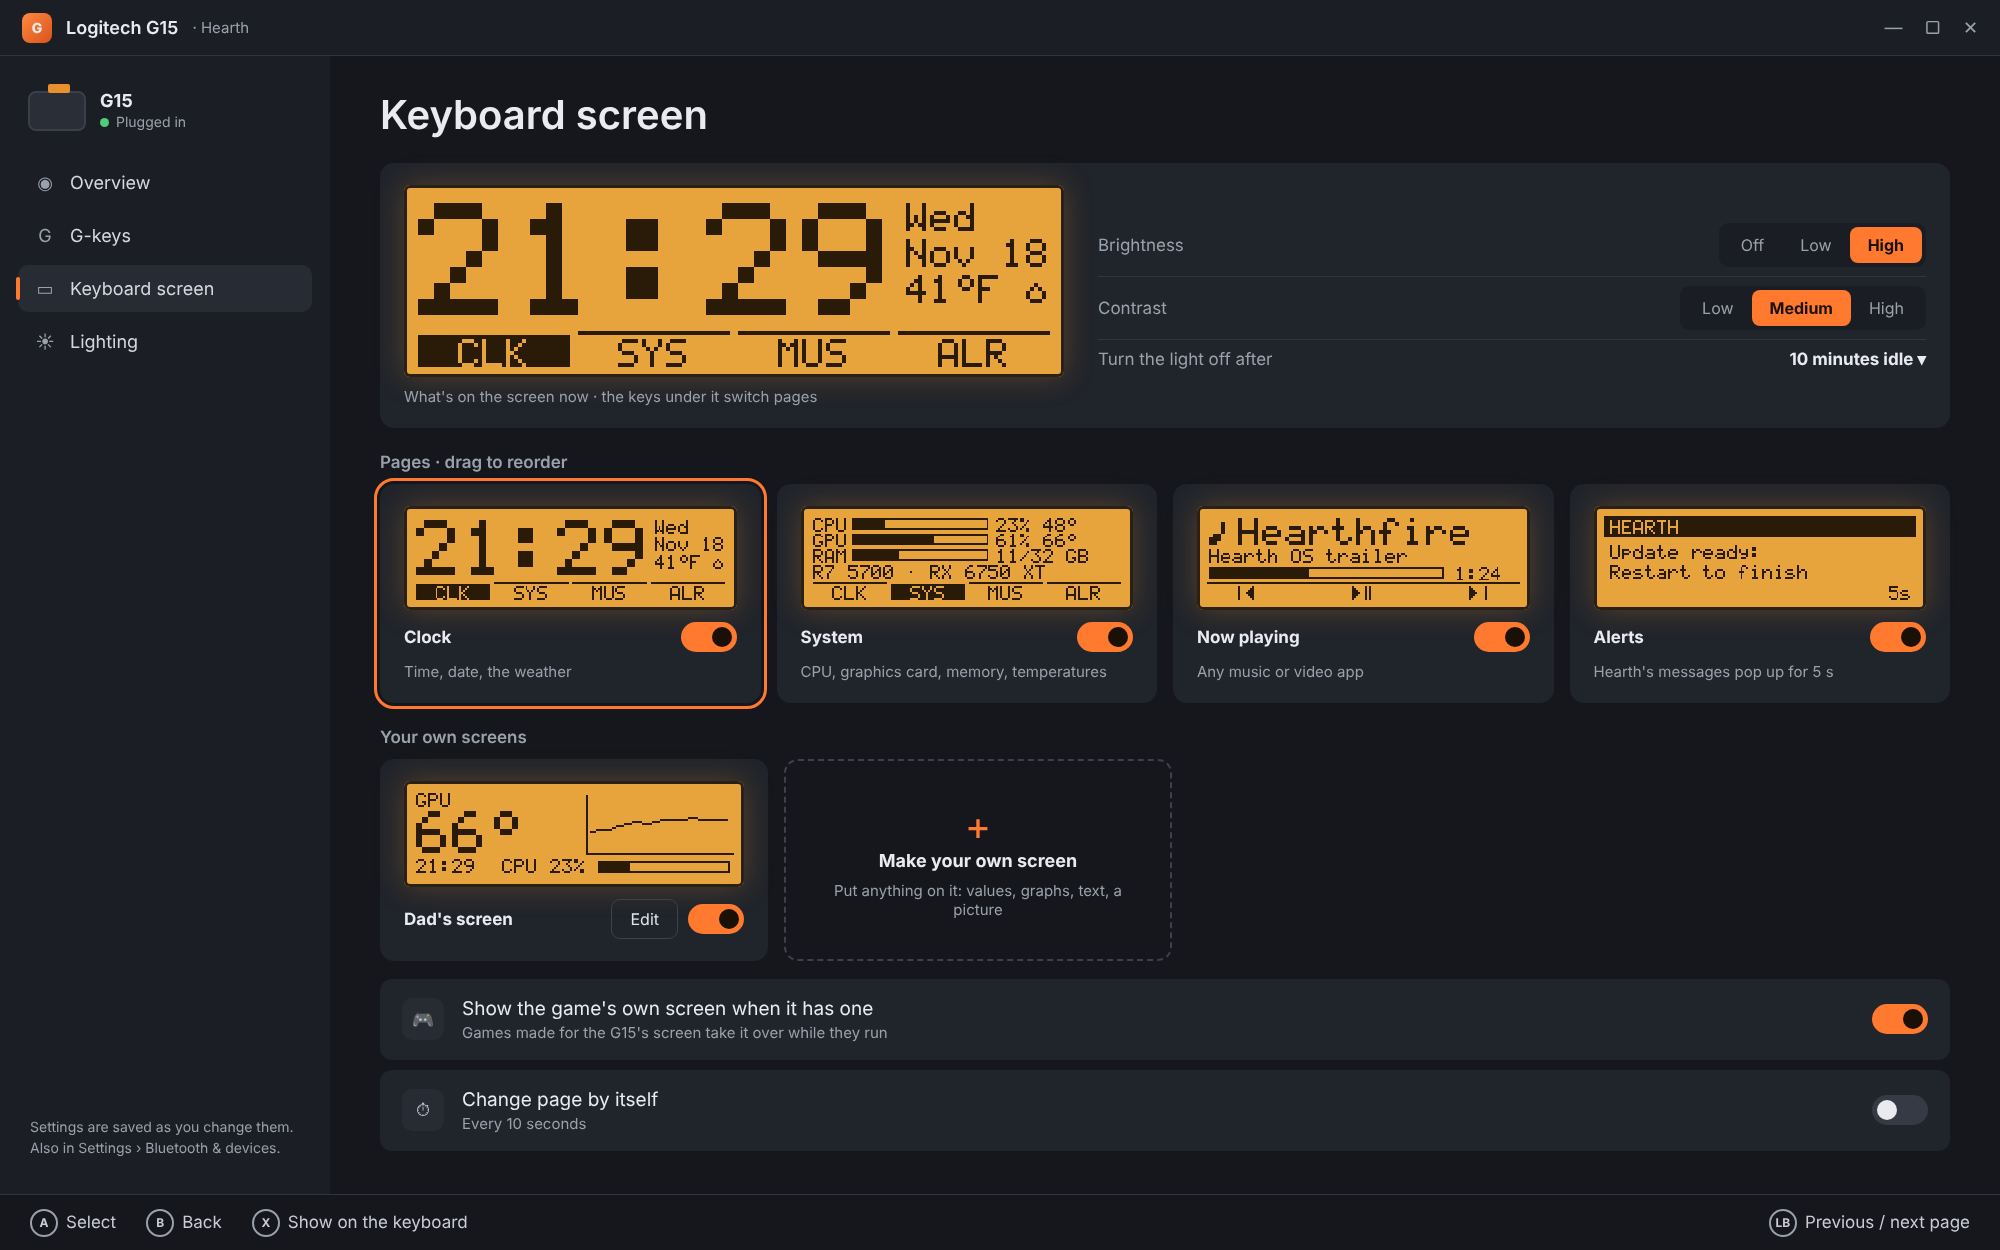
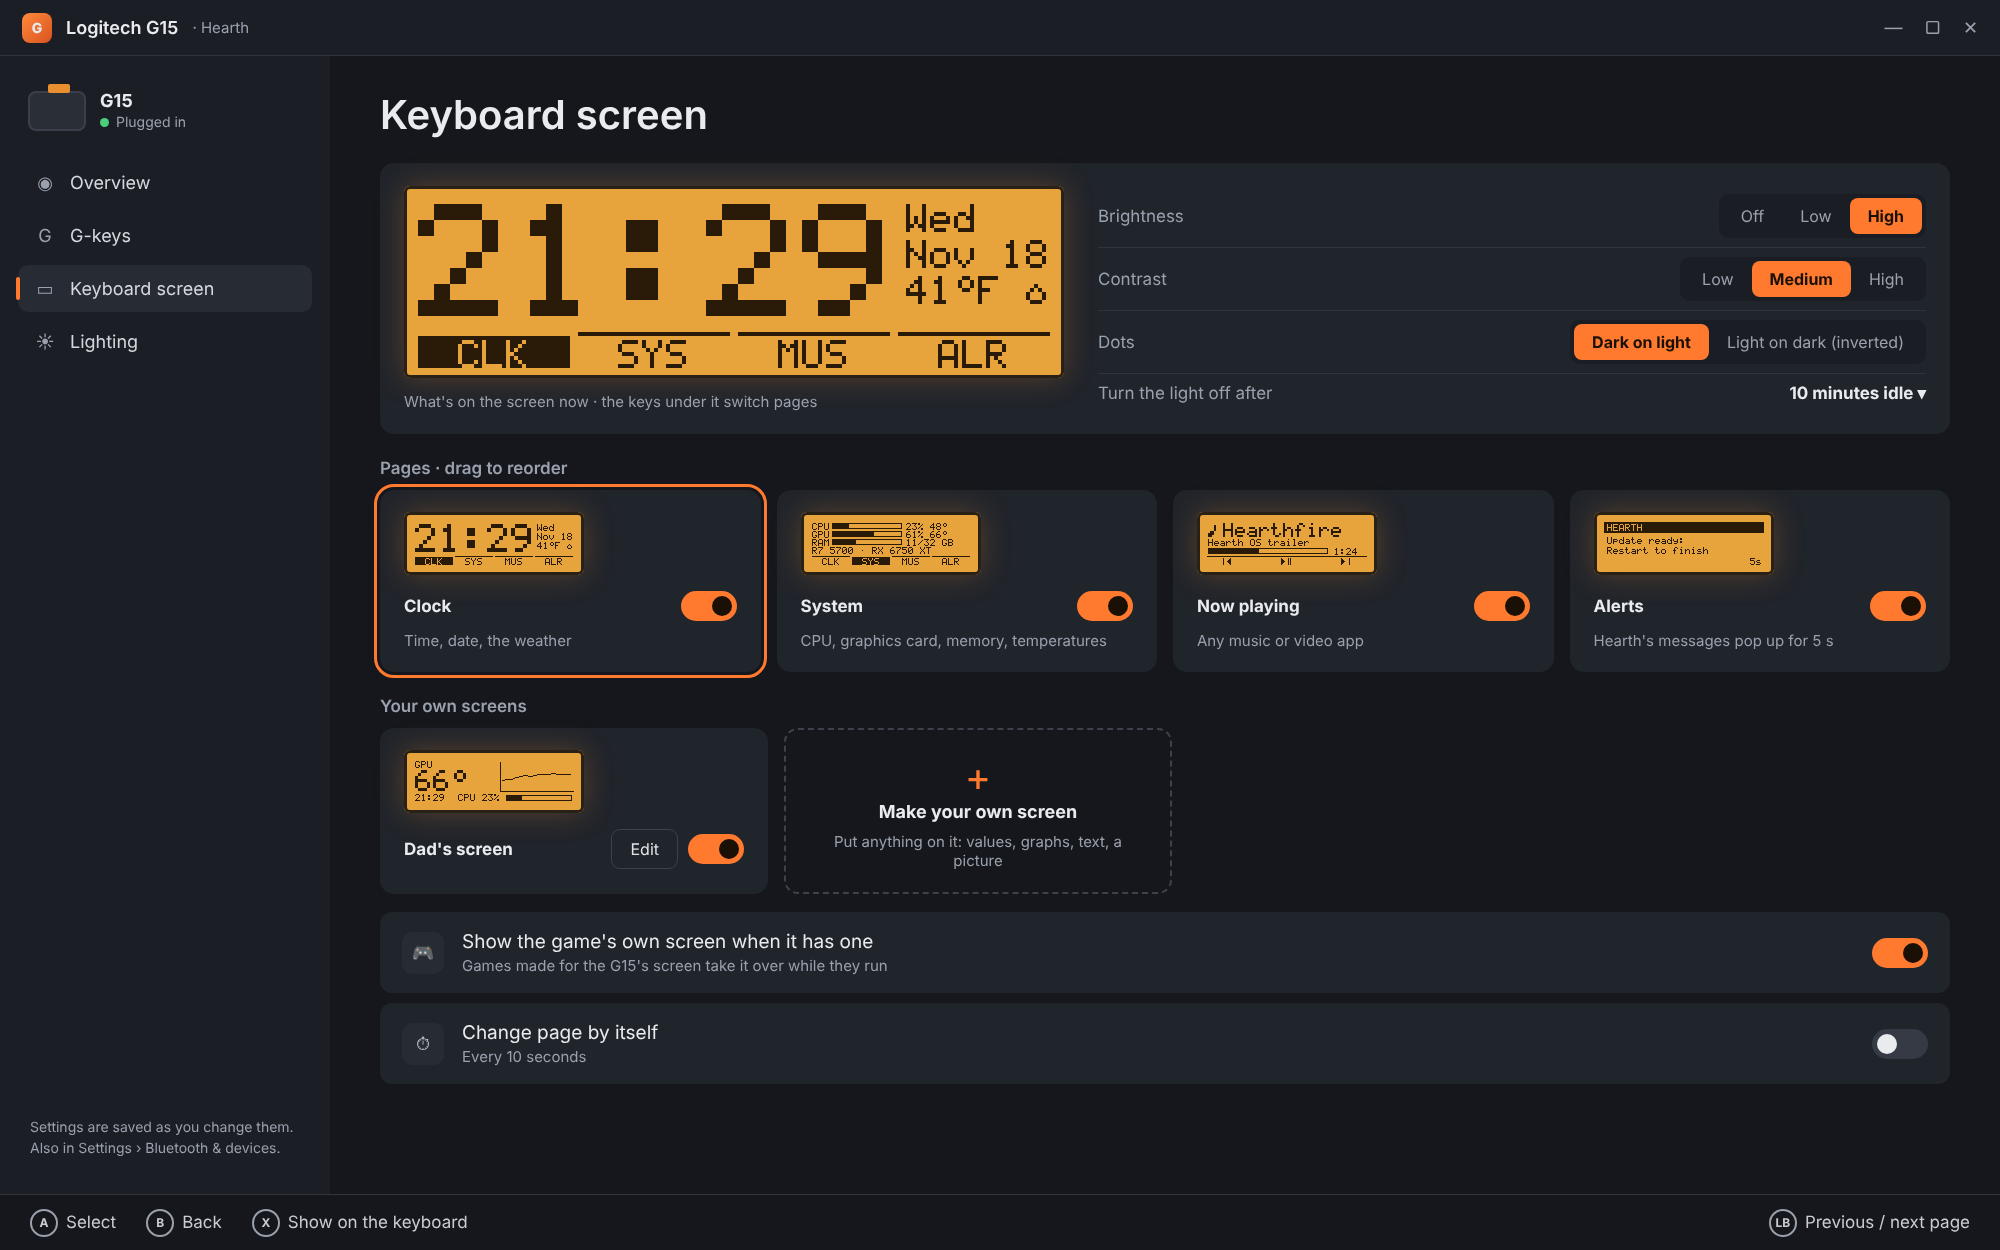
Logitech G15: the screen's Dots (light on dark, every frame inverted before it's sent, the app's pictures too); the mockups' orange buttons and rings; the key set message shows the set picked; macro chips end with the last key; the updated mockups

diff --git a/hosts/hearth-ui/apps/g15/src/app/view.rs b/hosts/hearth-ui/apps/g15/src/app/view.rs
@@ -79,6 +79,8 @@ pub fn focusables(a: &App) -> Vec<Item> {
             v.push(three("bright", "lcdLight", 2));
             let c = level(a, "lcdContrast", 1);
             v.push(lr("contrast", None, Some(Msg::Level("lcdContrast", c.saturating_sub(1))), Some(Msg::Level("lcdContrast", (c + 1).min(2)))));
+            let inv = flag(a, "lcdInvert", false);
+            v.push(lr("dots", Some(Msg::Flag("lcdInvert", !inv)), Some(Msg::Flag("lcdInvert", false)), Some(Msg::Flag("lcdInvert", true))));
             v.push(it("idle", Some(pick_idle())));
             for p in hearth_g15::lcd::screen::BUILT_IN {
                 v.push(lr(format!("page-{p}"), Some(Msg::TogglePage(p.to_string())), Some(Msg::MovePage(p.to_string(), -1)), Some(Msg::MovePage(p.to_string(), 1))));
@@ -154,6 +156,19 @@ fn card_on<'a>(p: &Pal, inner: impl Into<E<'a>>, picked: bool, focused: bool) ->
     let pp = *p;
     let line = if picked || focused { Some((ORANGE, if picked { 2.0 } else { 2.0 })) } else { None };
     container(inner).style(ui::boxed(pp.panel, pp.r(12.0), line)).into()
+}
+
+/// The mockups' orange button (Record again, Done, Keep), whatever the look's accent.
+pub fn obtn<'a>(p: &Pal, label: impl Into<String>, focused: bool, msg: Msg) -> E<'a> {
+    let c = container(tb(label.into(), 13.5, Color::from_rgb8(0x1b, 0x10, 0x06)))
+        .padding(Padding { top: 8.0, right: 18.0, bottom: 8.0, left: 18.0 })
+        .style(ui::boxed(Color::from_rgb8(0xff, 0x6a, 0x1a), p.r(6.0).max(4.0), if focused { Some((Color::WHITE, 2.0)) } else { None }));
+    mouse_area(c).on_press(msg).interaction(mouse::Interaction::Pointer).into()
+}
+
+/// The controller's ring, in the mockups' orange.
+pub fn oring<'a>(inner: E<'a>) -> E<'a> {
+    container(inner).padding(3.0).style(ui::boxed(Color::TRANSPARENT, 9.0, Some((ORANGE, 2.0)))).into()
 }
 
 fn switch<'a>(p: &Pal, on: bool, msg: Msg) -> E<'a> {
@@ -452,12 +467,12 @@ fn gkeys(a: &App) -> E<'_> {
         .align_y(iced::Center);
     let kind = a.kind();
     let kseg = seg(&p, KINDS.iter().map(|(k, l)| (l.to_string(), kind == *k, Msg::Kind(*k))).collect());
-    let kseg: E = if on(a, "kind") { ui::ring(p, true, 8.0, kseg) } else { kseg };
+    let kseg: E = if on(a, "kind") { oring(kseg) } else { kseg };
     let act = a.action(set, g);
     let what: E = match kind.as_str() {
         "text" => {
             let field = text_input("What it types", &a.text).on_input(Msg::Text).on_submit(Msg::TextSave).padding(8.0).size(14.0);
-            row![container(t("⌨", 16.0, p.muted)).width(Length::Fixed(30.0)), field, btn(&p, "Keep", Kind::Primary, false, Some(Msg::TextSave))].spacing(10.0).align_y(iced::Center).into()
+            row![container(t("⌨", 16.0, p.muted)).width(Length::Fixed(30.0)), field, obtn(&p, "Keep", false, Msg::TextSave)].spacing(10.0).align_y(iced::Center).into()
         }
         "none" => row![t1("This key does nothing in this set.", 13.0, p.muted)].into(),
         _ => {
@@ -485,11 +500,16 @@ fn gkeys(a: &App) -> E<'_> {
         Some((mg, v)) => {
             let steps = v.get("steps").and_then(|x| x.as_array()).cloned().unwrap_or_default();
             let mut chips = Row::new().spacing(6.0).align_y(iced::Center);
-            for (i, (label, wait)) in macro_chips(&steps).into_iter().enumerate() {
-                if i >= 11 {
-                    chips = chips.push(t("…", 13.0, p.muted));
-                    break;
+            let all = macro_chips(&steps);
+            let n = all.len();
+            for (i, (label, wait)) in all.into_iter().enumerate() {
+                if n > 12 && i >= 10 && i + 1 < n {
+                    if i == 10 {
+                        chips = chips.push(t("…", 13.0, p.muted));
+                    }
+                    continue;
                 }
+                let wait = if n > 12 && i + 1 == n { None } else { wait };
                 if let Some(w) = wait {
                     chips = chips.push(t(w, 11.5, p.muted));
                 }
@@ -507,12 +527,12 @@ fn gkeys(a: &App) -> E<'_> {
                 mouse_area(row![t(format!("{l}: "), 13.0, p.muted), tb(v, 13.0, p.text), t(" ▾", 11.0, p.text)]).on_press(Msg::MacroOpt(k)).interaction(mouse::Interaction::Pointer).into()
             };
             let name = s(&v, "name");
-            let rec: E = if a.recording { btn(&p, "■ Stop", Kind::Primary, on(a, "record"), Some(Msg::StopRecord)) } else { btn(&p, "● Record again", Kind::Primary, on(a, "record"), Some(Msg::Record)) };
+            let rec: E = if a.recording { obtn(&p, "■ Stop", on(a, "record"), Msg::StopRecord) } else { obtn(&p, "● Record again", on(a, "record"), Msg::Record) };
             let opts: E = row![opt("wait", "Wait between keys", wait), opt("repeat", "Repeat", rep), opt("held", "While held", held.to_string())].spacing(24.0).into();
-            let opts = if on(a, "opts") { ui::ring(p, true, 6.0, opts) } else { opts };
+            let opts = if on(a, "opts") { oring(opts) } else { opts };
             card(&p, column![row![tb(format!("G{mg} · Macro: \"{}\"", if name.is_empty() { "recorded".into() } else { name }), 16.0, p.text).width(Length::Fill), rec].align_y(iced::Center), chips, opts].spacing(12.0)).padding(18.0).width(Length::Fill).into()
         }
-        None => card(&p, row![column![tb("Macros", 16.0, p.text), t1("Press MR on the keyboard, type, then press the G-key to keep it on. Or pick Macro above.", 12.5, p.muted)].spacing(4.0).width(Length::Fill), btn(&p, if a.recording { "■ Stop" } else { "● Record" }, Kind::Primary, false, Some(if a.recording { Msg::StopRecord } else { Msg::Record }))].align_y(iced::Center)).padding(18.0).width(Length::Fill).into(),
+        None => card(&p, row![column![tb("Macros", 16.0, p.text), t1("Press MR on the keyboard, type, then press the G-key to keep it on. Or pick Macro above.", 12.5, p.muted)].spacing(4.0).width(Length::Fill), obtn(&p, if a.recording { "■ Stop" } else { "● Record" }, false, if a.recording { Msg::StopRecord } else { Msg::Record })].align_y(iced::Center)).padding(18.0).width(Length::Fill).into(),
     };
     // All 18 keys.
     let mut all = Column::new().spacing(8.0);
@@ -591,13 +611,14 @@ fn screen_page(a: &App) -> E<'_> {
     let idle_txt = if idle == 0 { "Never".to_string() } else { format!("{idle} minutes idle") };
     let ctl = |l: &str, w: E<'static>, id: &str| -> E<'static> {
         let r: E = row![t(l.to_string(), 14.5, p.text).width(Length::Fill), w].align_y(iced::Center).into();
-        column![if on(a, id) { ui::ring(p, true, 6.0, r) } else { r }, hline(p.line)].spacing(10.0).into()
+        column![if on(a, id) { oring(r) } else { r }, hline(p.line)].spacing(10.0).into()
     };
     let idle_pick: E = mouse_area(row![tb(idle_txt, 14.0, p.text), t(" ▾", 12.0, p.text)]).on_press(Msg::Picked("idle", "@open".into())).interaction(mouse::Interaction::Pointer).into();
     let c = level(a, "lcdContrast", 1);
     let controls = column![
         ctl("Brightness", three(&p, "lcdLight", level(a, "lcdLight", 2)), "bright"),
         ctl("Contrast", seg(&p, ["Low", "Medium", "High"].iter().enumerate().map(|(i, l)| (l.to_string(), c == i as u32, Msg::Level("lcdContrast", i as u32))).collect()), "contrast"),
+        ctl("Dots", seg(&p, vec![("Dark on light".into(), !flag(a, "lcdInvert", false), Msg::Flag("lcdInvert", false)), ("Light on dark (inverted)".into(), flag(a, "lcdInvert", false), Msg::Flag("lcdInvert", true))]), "dots"),
         ctl("Turn the light off after", idle_pick, "idle"),
     ]
     .spacing(14.0)
@@ -617,7 +638,7 @@ fn screen_page(a: &App) -> E<'_> {
         };
         let focused = on(a, &format!("page-{id}"));
         let over = a.over.as_deref() == Some(id.as_str()) && a.dragging.is_some();
-        let inner = column![lcd(a.shot(&id), sz(330.0), sz(102.0), false), row![tb(page_title(a, &id), 14.5, p.text).width(Length::Fill), switch(&p, enabled, Msg::TogglePage(id.clone()))].align_y(iced::Center), t1(sub, 12.5, p.muted)].spacing(10.0);
+        let inner = column![lcd(a.shot(&id), sz(330.0), sz(102.0), false), row![tb(page_title(a, &id), 14.5, p.text).width(Length::Fill), switch(&p, enabled, Msg::TogglePage(id.clone()))].align_y(iced::Center), t(sub, 12.5, p.muted)].spacing(10.0);
         let c = card_on(&p, container(inner).padding(14.0).width(Length::Fill), focused || over, false);
         cards = cards.push(
             mouse_area(container(c).width(Length::FillPortion(1)))
@@ -867,16 +888,16 @@ fn dialog<'a>(a: &'a App, d: &'a Dlg) -> E<'a> {
         }, v.iter().map(|(k, l)| (l.clone(), String::new(), Msg::Picked(*w, k.clone()))).collect()),
         Dlg::Rename(x) => ui::dialog_box(&p, 460.0, column![
             tb(format!("Name M{}", a.set), 17.0, p.text),
-            t1("The screen shows it when you switch to this set.", 13.0, p.muted),
+            t("The screen shows it when you switch to this set.", 13.0, p.muted),
             text_input("Everyday, Trainz…", x).on_input(Msg::RenameText).on_submit(Msg::RenameSave).padding(8.0).size(14.0),
-            row![Space::new().width(Length::Fill), btn(&p, "Cancel", Kind::Normal, false, Some(Msg::CloseDlg)), btn(&p, "Keep", Kind::Primary, false, Some(Msg::RenameSave))].spacing(8.0)
+            row![Space::new().width(Length::Fill), btn(&p, "Cancel", Kind::Normal, false, Some(Msg::CloseDlg)), obtn(&p, "Keep", false, Msg::RenameSave)].spacing(8.0)
         ].spacing(12.0)),
         Dlg::Games(v) => {
-            let mut c = Column::new().spacing(10.0).push(tb("A key set for each game", 17.0, p.text)).push(t1("While a game runs, its key set is used; the one you picked comes back when it closes. Type part of the game's name (as its program is called).", 13.0, p.muted));
+            let mut c = Column::new().spacing(10.0).push(tb("A key set for each game", 17.0, p.text)).push(t("While a game runs, its key set is used; the one you picked comes back when it closes. Type part of the game's name (as its program is called).", 13.0, p.muted));
             for (i, g) in v.iter().enumerate() {
                 c = c.push(row![container(t(format!("M{} · {}", i + 1, a.set_name(i as u8 + 1)), 14.0, p.text)).width(Length::Fixed(150.0)), text_input("No game", g).on_input(move |x| Msg::GameText(i, x)).padding(7.0).size(14.0)].spacing(10.0).align_y(iced::Center));
             }
-            c = c.push(row![Space::new().width(Length::Fill), btn(&p, "Cancel", Kind::Normal, false, Some(Msg::CloseDlg)), btn(&p, "Keep", Kind::Primary, false, Some(Msg::GamesSave))].spacing(8.0));
+            c = c.push(row![Space::new().width(Length::Fill), btn(&p, "Cancel", Kind::Normal, false, Some(Msg::CloseDlg)), obtn(&p, "Keep", false, Msg::GamesSave)].spacing(8.0));
             ui::dialog_box(&p, 560.0, c)
         }
     }

diff --git a/hosts/hearth-ui/apps/g15/src/service.rs b/hosts/hearth-ui/apps/g15/src/service.rs
@@ -690,7 +690,11 @@ impl Service {
         if let Some((_, until)) = &self.popup {
             t.insert("alert.left".into(), until.saturating_duration_since(Instant::now()).as_secs_f32().ceil().to_string());
         }
-        let set = self.active_set();
+        // The key set message shows the set just picked.
+        let set = match &self.popup {
+            Some((Popup::Set(n), _)) => *n,
+            _ => self.active_set(),
+        };
         t.insert("set.n".into(), set.to_string());
         let name = self.cfg.get("names").and_then(|n| n.get(format!("m{set}"))).and_then(|v| v.as_str()).unwrap_or("").to_string();
         t.insert("set.name".into(), if name.is_empty() { format!("Key set {set}") } else { name });
@@ -751,6 +755,10 @@ impl Service {
         let c = screen::Ctx { r: &r, history: &self.sampler.history, now: hearth_ui::time::now(), tabs, tab };
         let mut f = Frame::new();
         screen::draw(&mut f, &els, &c);
+        // Keyboard screen › Dots: light dots on dark (every frame turned the other way, right before it's sent).
+        if config::flag(&self.cfg, "lcdInvert", false) {
+            f.invert(0, 0, lcd::W, lcd::H);
+        }
         (f, live)
     }
 
@@ -1246,6 +1254,9 @@ impl Previewer {
         let c = screen::Ctx { r: &r, history: &self.s.sampler.history, now: hearth_ui::time::now(), tabs, tab };
         let mut f = Frame::new();
         screen::draw(&mut f, els, &c);
+        if config::flag(&self.s.cfg, "lcdInvert", false) {
+            f.invert(0, 0, lcd::W, lcd::H);
+        }
         f
     }
 }
@@ -1276,6 +1287,15 @@ pub fn frame_of(root: Root, page: &str) -> Option<Frame> {
         }
         "set" => s.popup = Some((Popup::Set(2), Instant::now() + Duration::from_secs(5))),
         "alert" => s.popup = Some((Popup::Alert, Instant::now() + Duration::from_secs(5))),
+        // The clock with Keyboard screen › Dots on "Light on dark (inverted)" (the mockup's eighth example).
+        "inverted" => {
+            if let Some(o) = s.cfg.as_object_mut() {
+                o.insert("lcdInvert".into(), json!(true));
+            } else {
+                s.cfg = json!({"lcdInvert": true});
+            }
+            s.page = s.pages().iter().position(|x| x == "clock").unwrap_or(0);
+        }
         p => {
             let pages = s.pages();
             if let Some(i) = pages.iter().position(|x| x == p) {
@@ -1316,6 +1336,10 @@ mod tests {
             let f = frame_of(Root::at(d.path()), p).unwrap_or_else(|| panic!("{p}"));
             assert!(f.lit() > 40, "{p} is nearly empty");
         }
+        // Inverted: every dot the other way round.
+        let a = frame_of(Root::at(d.path()), "clock").unwrap();
+        let b = frame_of(Root::at(d.path()), "inverted").unwrap();
+        assert_eq!(a.lit() + b.lit(), (lcd::W * lcd::H) as usize);
         assert!(!d.path().join("g15.json").exists(), "picturing the pages wrote nothing");
     }
 }

diff --git a/hosts/hearth-ui/apps/g15/src/app/main.rs b/hosts/hearth-ui/apps/g15/src/app/main.rs
@@ -232,6 +232,10 @@ impl App {
             }
         }
         a.load_key();
+        let pg = a.page;
+        if pg != Page::Editor {
+            let _ = update(&mut a, Msg::Go(pg));
+        }
         a.refresh_pictures();
         // CI's pictures: --show hearth|apps|rename|games opens that dialog.
         match app::arg("--show").as_deref() {
@@ -618,7 +622,15 @@ fn update(a: &mut App, m: Msg) -> Task<Msg> {
         Msg::Resize(d) => return win::resize(d),
         Msg::Go(p) => {
             a.page = p;
-            a.focus = 0;
+            // The controller starts on the page's main thing (the mockups: the key set in use, the picked G-key,
+            // the first page).
+            let start = match p {
+                Page::Overview => format!("set{}", config::set_in_use(&a.cfg)),
+                Page::GKeys => format!("g{}", a.g),
+                Page::Screen => "page-clock".into(),
+                _ => "kbd".into(),
+            };
+            a.focus = view::focusables(a).iter().position(|i| i.id == start).unwrap_or(0);
             a.dlg = None;
             a.note.clear();
             a.refresh_pictures();

diff --git a/hosts/hearth-ui/apps/g15/src/config.rs b/hosts/hearth-ui/apps/g15/src/config.rs
@@ -8,6 +8,9 @@
 //!   "keys": {"m1": {"g1": ACTION, …}, "m2": {…}, "m3": {…}},
 //!   "names": {"m1": "Everyday", "m2": "Trainz"}, a set's name (the screen shows it when you switch)
 //!   "kbdLight": 0|1|2, "lcdLight": 0|1|2,       off, low, high (missing: as the keyboard is)
+//!   "lcdContrast": 0|1|2, "lcdInvert": bool,     the screen's contrast; light dots on dark (every frame inverted)
+//!   "lcdIdleOff": minutes, "autoPage": bool, "autoPageSecs": n, "gameScreens": bool, "mrRecord": bool,
+//!   "switchSets": bool
 //!   "lightsOffWhenLocked": bool, "nightDim": bool, "nightFrom": "21:00", "nightTo": "07:00", "mLights": bool,
 //!   "pages": ["clock", "system", "music", "alerts", "<own screen id>"…],   the screen's pages, in order
 //!   "screens": [SCREEN…],                       your own screens (lcd/screen.rs)

diff --git a/docs/mockups/checklists/g15.md b/docs/mockups/checklists/g15.md
@@ -1,4 +1,4 @@
-# Logitech G15 app (approved Nov 18, 2026: "heel yeah")
+# Logitech G15 app (approved Nov 18, 2026: "heel yeah"; the screen's Dots added the same day)
 
 Mockups: g15/g15-1-overview.png, g15/g15-2-g-keys.png, g15/g15-3-keyboard-screen.png, g15/g15-4-lighting.png, g15/g15-5-screen-pages.png, g15/g15-6-make-your-own.png
 Release: next
@@ -39,6 +39,7 @@ Status (feature/logitech-g15): the service, the screen's pages and the test .deb
 - [ ] What's on the screen now, big, live: "What's on the screen now · the keys under it switch pages"
 - [ ] Brightness: Off, Low, High
 - [ ] Contrast: Low, Medium, High
+- [ ] Dots: Dark on light, Light on dark (inverted): every frame on the keyboard, the live picture and your own screens turned the other way
 - [ ] Turn the light off after: 10 minutes idle (a list)
 - [ ] Pages · drag to reorder: Clock, System, Now playing, Alerts, each with its live picture, a switch and its line
 - [ ] Your own screens: Dad's screen with its picture, Edit and a switch
@@ -62,6 +63,7 @@ Status (feature/logitech-g15): the service, the screen's pages and the test .deb
 - [ ] Recording a macro (MR): the dot, RECORDING, "Press a G-key to keep it", how many keys and seconds
 - [ ] Key set changed: M2 big, the set's name, "8 G-keys set up"
 - [ ] Your own screen: GPU 66° big, a graph of the heat, the time, CPU 23% and its bar
+- [ ] Inverted: the clock as light dots on dark (Keyboard screen › Dots)
 
 ## 6. Make your own screen (g15-6)
 - [ ] "Keyboard screen › Dad's screen", Undo, Show on the keyboard, Done
